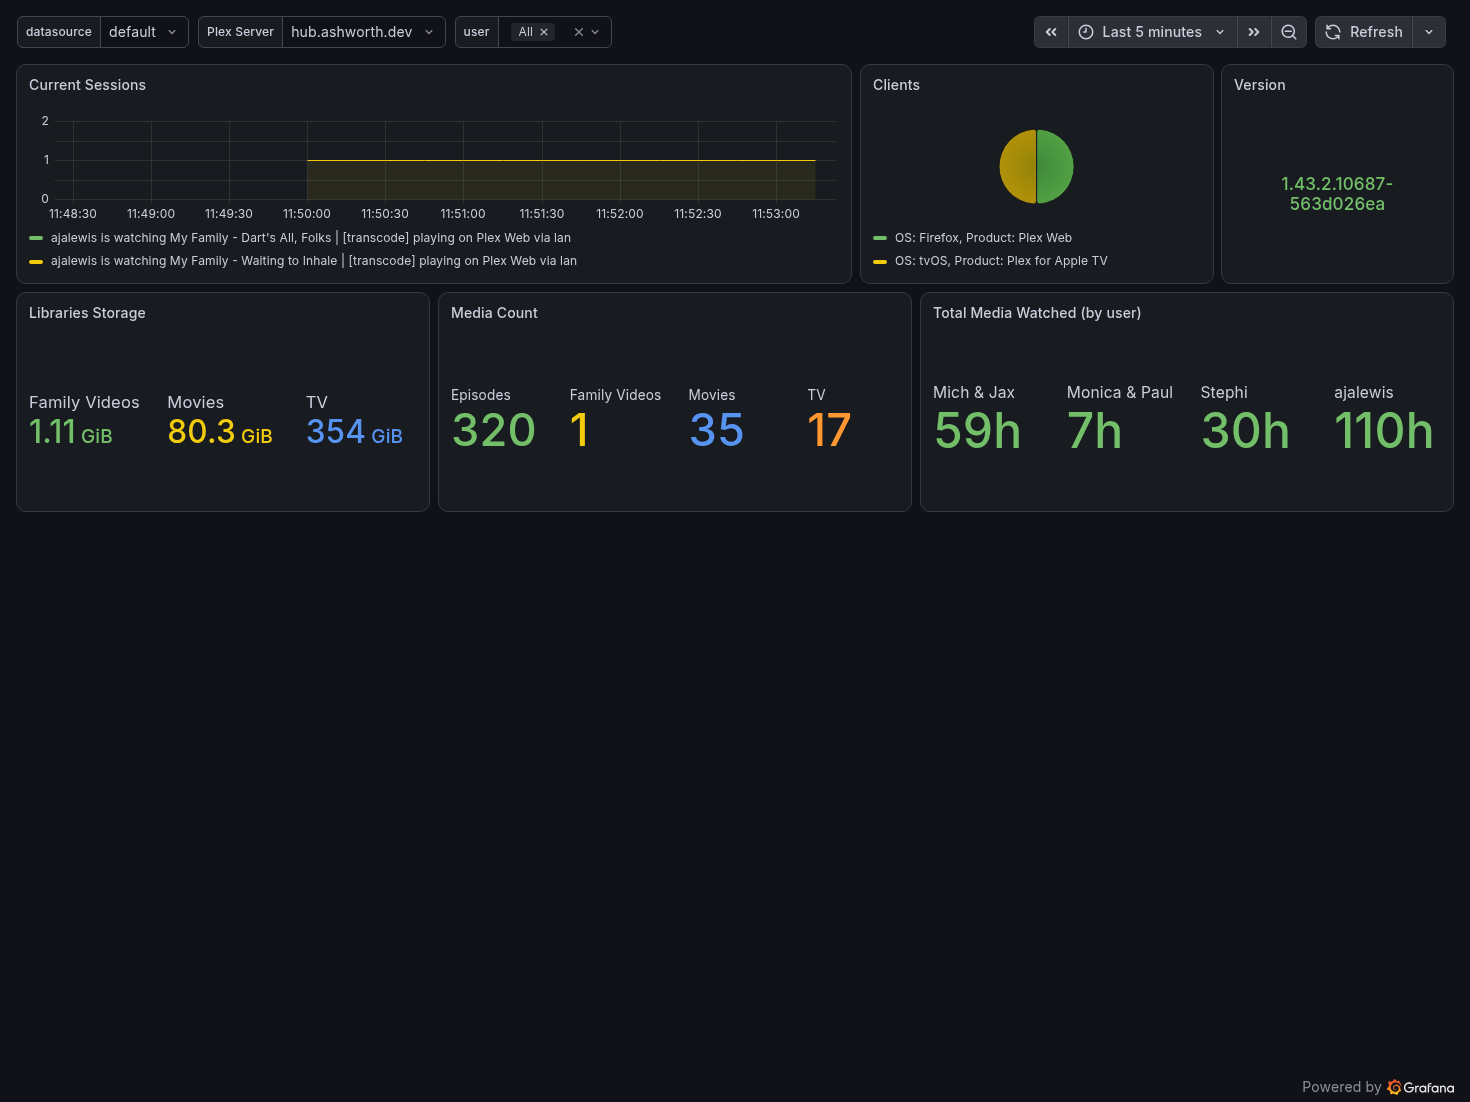
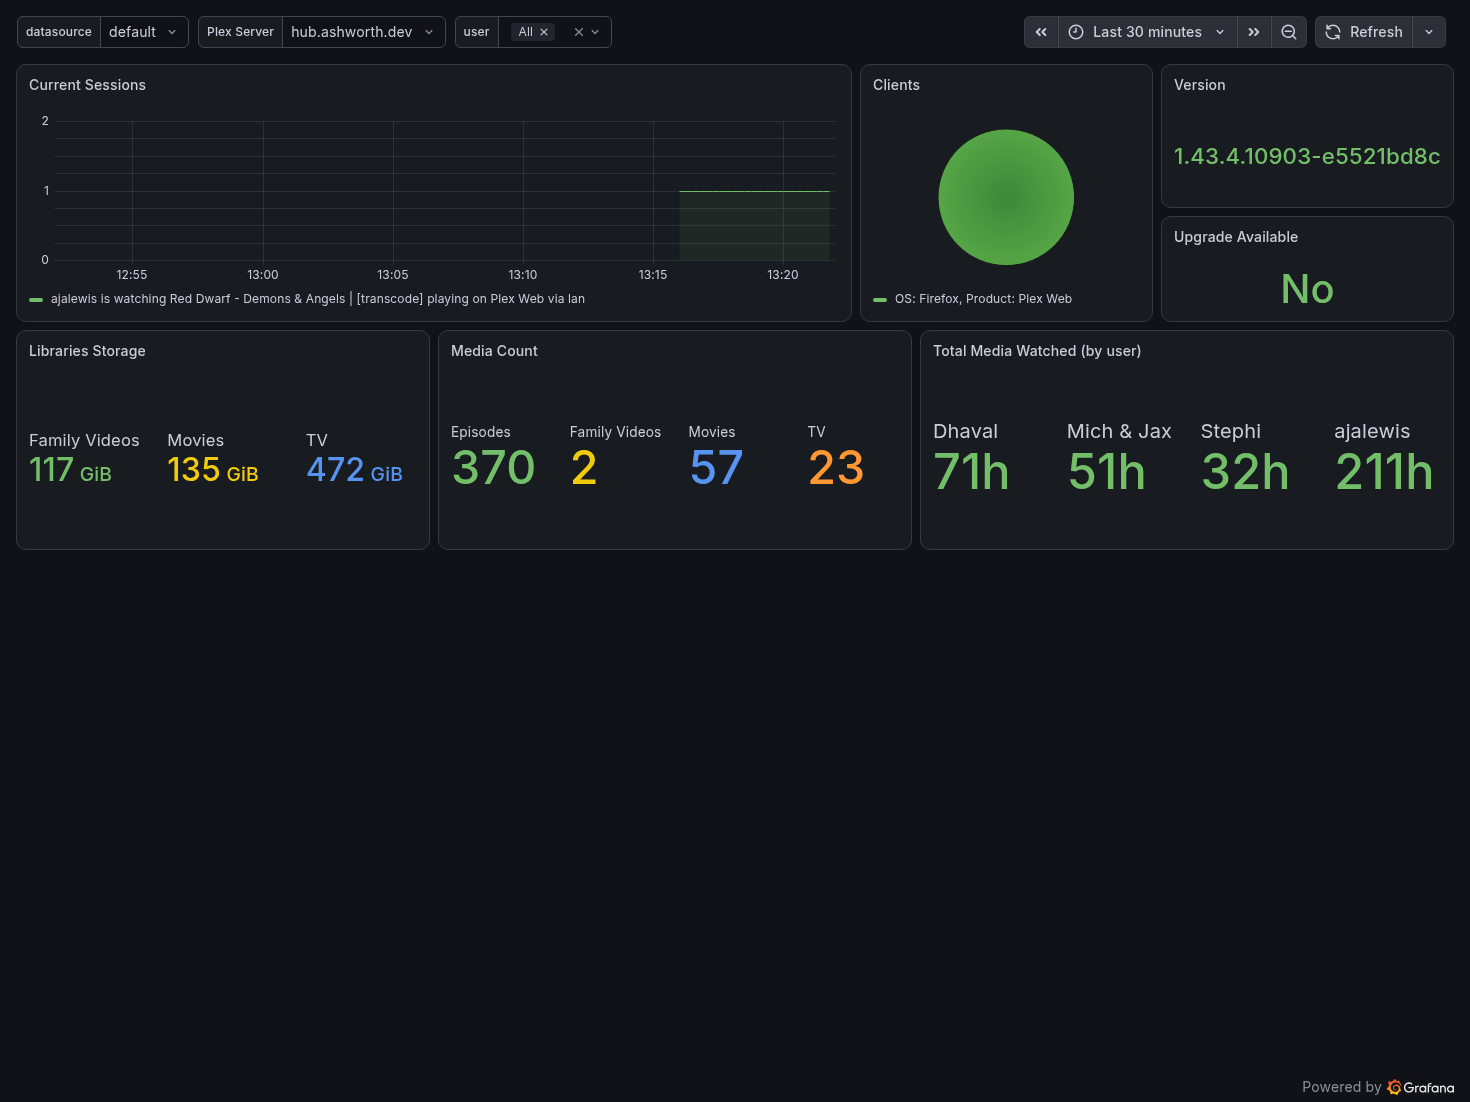
v3.1.0

diff --git a/exporter/plex_exporter.py b/exporter/plex_exporter.py
@@ -23,7 +23,7 @@ class PlexExporter:
             token (str): The relevant Plex token.
     """
 
-    __version__ = "v3.0.0"
+    __version__ = "v3.1.0"
 
     FAST_INTERVAL = 15
     SLOW_INTERVAL = 300
@@ -45,7 +45,7 @@ class PlexExporter:
             exit(1)
         except ConnectionError:
             logging.error(f"failed to initialise. PMS '{self.server}' is unreachable")
-            exit(1)
+            raise
         except Exception as e:
             logging.error(f"failed to initialise PMS connection: {e}")
             exit(1)
@@ -57,7 +57,10 @@ class PlexExporter:
         last_slow_run = 0
 
         while True:
-            self.collector._collect_clients()
+            try:
+                self.collector._collect_clients()
+            except Exception as e:
+                logging.warning(f"Failed to run fast-tier collector: {e}")
 
             now = time.time()
             if now - last_slow_run >= self.SLOW_INTERVAL:
@@ -73,6 +76,8 @@ class PlexExporter:
 
 
 class PlexCollector:
+    UPDATE_CHECK_INTERVAL = 3600
+
     def __init__(self, token, server) -> None:
         super().__init__()
         self.plex = PlexServer(server, token)
@@ -116,8 +121,12 @@ class PlexCollector:
         self._user_totals = {}
         self._last_history_check = None
         self._cached_users = {}
+        self._last_update_check = 0
+        self._cached_release = ("unknown", "")
 
     def _collect_base(self):
+        update_available, update_version = self._check_for_update()
+
         self.plex_base_metric.info(
             {
                 "version": f"{self.plex.version}",
@@ -125,51 +134,78 @@ class PlexCollector:
                 "platform": f"{self.plex.platform}",
                 "platform_version": f"{self.plex.platformVersion}",
                 "my_plex_subscription": f"{self.plex.myPlexSubscription}",
+                "update_available": update_available,
+                "update_version": update_version,
             }
         )
 
+    def _check_for_update(self):
+        now = time.time()
+        if now - self._last_update_check < self.UPDATE_CHECK_INTERVAL:
+            return self._cached_release
+
+        try:
+            release = self.plex.checkForUpdate(force=True)
+            if release:
+                self._cached_release = ("true", release.version or "")
+            else:
+                self._cached_release = ("false", "")
+        except Exception as e:
+            logging.warning(f"Failed to check for a Plex Media Server update: {e}")
+            self._cached_release = ("unknown", "")
+
+        self._last_update_check = now
+        return self._cached_release
+
     def _collect_clients(self):
-        sessions = self.plex.sessions()
+        try:
+            sessions = self.plex.sessions()
+        except Exception as e:
+            logging.warning(f"Failed to scrape plex_clients_metric: {e}")
+            return
+
         self.plex_session_metric.clear()
 
         unique_clients = set()
 
-        try:
-            if sessions:
-                for session in sessions:
-                    if type(session).__name__ == "EpisodeSession":
-                        title = f"{session.grandparentTitle} - {session.title}"
-                    else:
-                        title = session.title
+        for session in sessions:
+            try:
+                if type(session).__name__ == "EpisodeSession":
+                    title = f"{session.grandparentTitle} - {session.title}"
+                else:
+                    title = session.title
 
-                    if session.transcodeSessions:
-                        session_type = "transcode"
-                    else:
-                        session_type = "direct"
+                if session.transcodeSessions:
+                    session_type = "transcode"
+                else:
+                    session_type = "direct"
 
-                    session_key = str(session.sessionKey)
-                    username = session.usernames[0]
-                    client = session.player
+                session_key = str(session.sessionKey)
+                username = session.usernames[0] if session.usernames else "unknown"
+                location = (
+                    session.sessions[0].location if session.sessions else "unknown"
+                )
+                client = session.player
 
-                    self.plex_session_metric.labels(
-                        session_key,
-                        session_type,
-                        username,
-                        title,
-                        session.player.product,
-                        session.player.state,
-                        session.sessions[0].location,
-                        self.plex.friendlyName,
+                self.plex_session_metric.labels(
+                    session_key,
+                    session_type,
+                    username,
+                    title,
+                    client.product,
+                    client.state,
+                    location,
+                    self.plex.friendlyName,
+                ).set(1.0)
+
+                if client.machineIdentifier not in unique_clients:
+                    self.plex_client_metric.labels(
+                        client.device, client.product, client.platform
                     ).set(1.0)
 
-                    if client.machineIdentifier not in unique_clients:
-                        self.plex_client_metric.labels(
-                            client.device, client.product, client.platform
-                        ).set(1.0)
-
-                        unique_clients.add(client.machineIdentifier)
-        except Exception as e:
-            logging.warning(f"Failed to scrape plex_clients_metric: {e}")
+                    unique_clients.add(client.machineIdentifier)
+            except Exception as e:
+                logging.warning(f"Failed to scrape plex_clients_metric: {e}")
 
     def _collect_libraries_genres(self):
         libraries = self.plex.library.sections()
